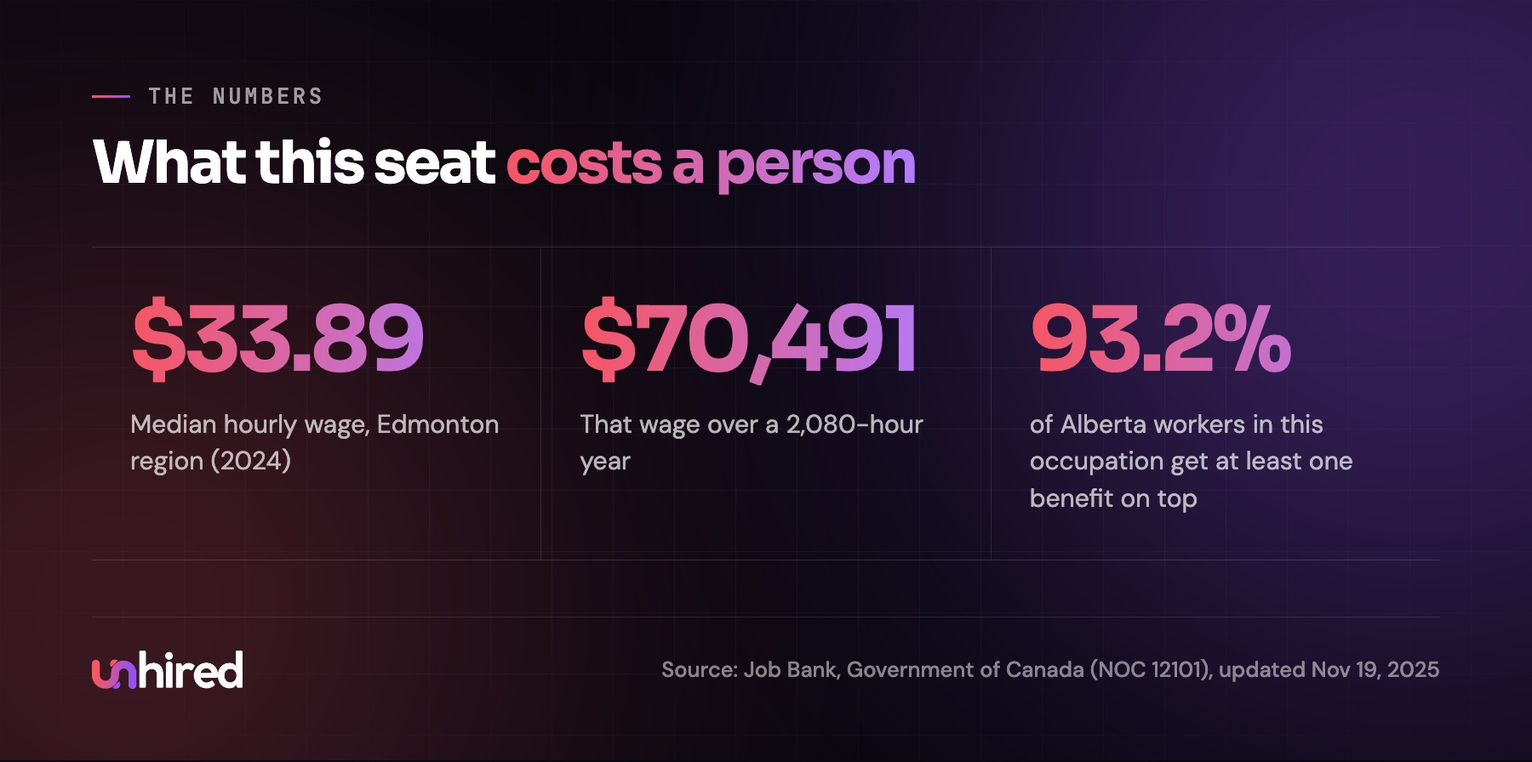
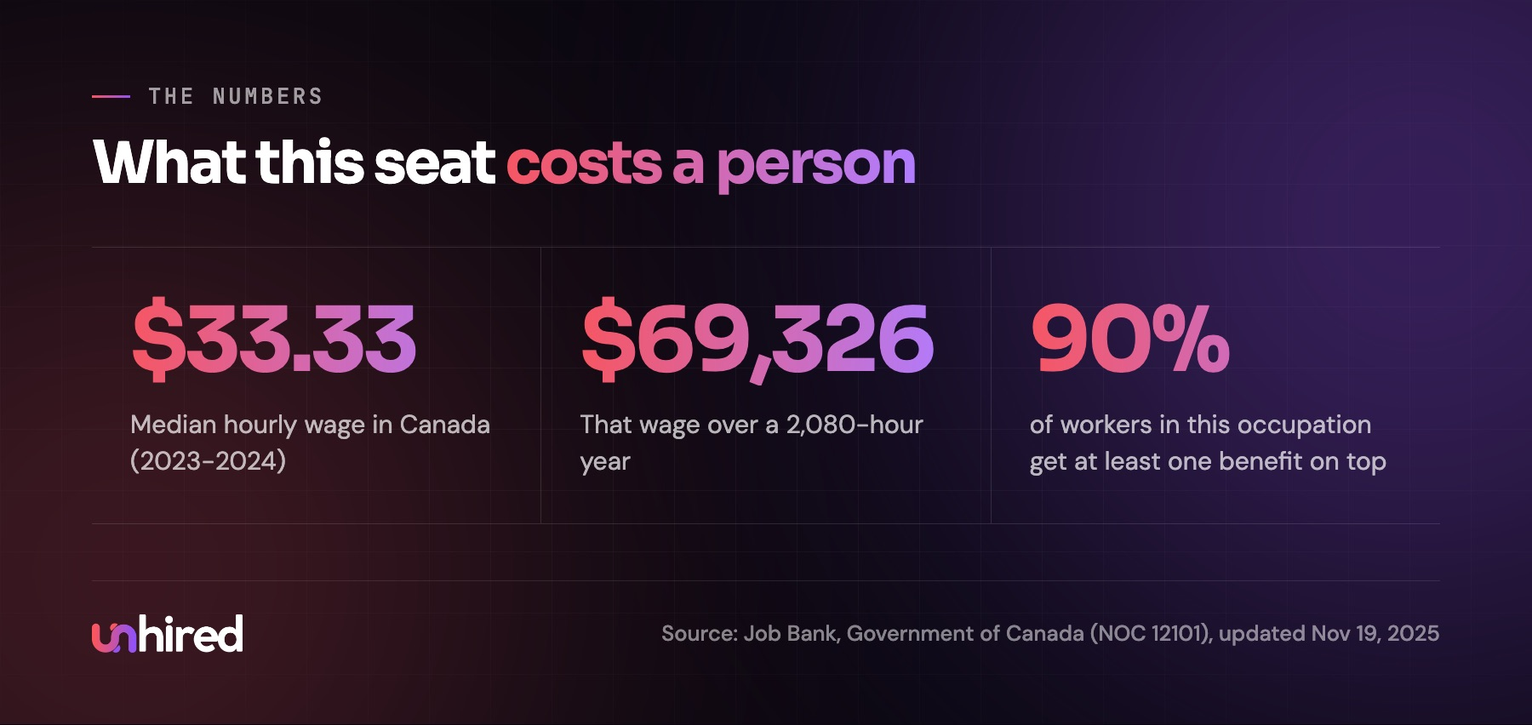
Articles: Brandon's first-person voice, no place names
WRITING.md 0b: written as Brandon (four years building AI systems and agents), no invented
case studies, no cities/provinces/states/regions, national wage figures only.
check-writing.mjs fails place names. HR breakdown drops Edmonton and uses Canada-wide
Job Bank figures.

diff --git a/public/kits/ai-hr-administrator.html b/public/kits/ai-hr-administrator.html
@@ -52,7 +52,7 @@ Original: <a href="https://unhired.io/blog/ai-hr-administrator">unhired.io/blog/
 
 <div class="blk"><div class="bar"><span class="n">14</span>Cover image<a class="dl" href="https://unhired.io/blog/ai-hr-administrator/01-cover.jpg" download>Download</a></div><img src="https://unhired.io/blog/ai-hr-administrator/01-cover.jpg" alt="A Construction Company Is Hiring an HR Administrator. What Would an AI Employee Do in Each Duty?"><p class="alt">Alt text: A Construction Company Is Hiring an HR Administrator. What Would an AI Employee Do in Each Duty?</p></div>
 <div class="blk"><div class="bar"><span class="n">15</span>Title<button data-copy>Copy</button></div><div class="body"><p>A Construction Company Is Hiring an HR Administrator. I Worked Out How an AI Employee Would Do the Job.</p></div></div>
-<div class="blk"><div class="bar"><span class="n">1</span>Paste text<button data-copy>Copy</button></div><div class="body"><p>A construction company in Edmonton posted a job for an HR Administrator this month. Full-time, benefits included, reporting into a busy HR team that onboards crews for several project sites at once.</p>
+<div class="blk"><div class="bar"><span class="n">1</span>Paste text<button data-copy>Copy</button></div><div class="body"><p>A construction company posted a job for an HR Administrator this month. Full-time, benefits included, reporting into a busy HR team that onboards crews for several project sites at once.</p>
 <p>I read every posting the same way now. I go down the list of duties and sort each one: could an AI Employee own this, or does it need a person? This posting has six duties, and all six are paperwork moving between BambooHR, the payroll system, a testing clinic and the people running each site.</p>
 <p>So I worked out what the AI version of this hire would look like: what it would do in each duty, a normal day on the job, how it would be set up, and what it would cost next to the wage.</p>
 </div></div>
@@ -93,24 +93,24 @@ Original: <a href="https://unhired.io/blog/ai-hr-administrator">unhired.io/blog/
 <div class="blk"><div class="bar"><span class="n">10</span>Add image<a class="dl" href="https://unhired.io/blog/ai-hr-administrator/06-setup.jpg" download>Download</a></div><img src="https://unhired.io/blog/ai-hr-administrator/06-setup.jpg" alt="How an AI HR Administrator is set up"><p class="alt">Alt text: How an AI HR Administrator is set up</p></div>
 <div class="blk"><div class="bar"><span class="n">11</span>Paste text<button data-copy>Copy</button></div><div class="body"><p>The last step is the one people skip. This company will switch benefits providers, open a site with different clearance rules, or change payroll software, and an AI Employee nobody updates slowly drifts out of date. Whoever builds it, the company needs to know who reviews its log and keeps it current.</p>
 <h2>What the seat costs a person</h2>
-<p>The Government of Canada&#39;s Job Bank puts the median wage for this occupation in the Edmonton region at $33.89 an hour (NOC 12101, 2024 data). Over a 2,080-hour year that&#39;s about $70,491.</p>
+<p>The Government of Canada&#39;s Job Bank puts the national median wage for this occupation at $33.33 an hour (NOC 12101, 2023-2024 data). Over a 2,080-hour year that&#39;s about $69,326.</p>
 </div></div>
 <div class="blk"><div class="bar"><span class="n">12</span>Add image<a class="dl" href="https://unhired.io/blog/ai-hr-administrator/07-the-numbers.jpg" download>Download</a></div><img src="https://unhired.io/blog/ai-hr-administrator/07-the-numbers.jpg" alt="What this seat costs a person"><p class="alt">Alt text: What this seat costs a person</p></div>
-<div class="blk"><div class="bar"><span class="n">13</span>Paste text<button data-copy>Copy</button></div><div class="body"><p>The wage is only part of it. In Alberta, 93.2% of workers in this occupation get at least one benefit on top of their pay, and the employer also covers payroll taxes, recruiting, training, vacation coverage, and a second round of hiring if the first person leaves.</p>
+<div class="blk"><div class="bar"><span class="n">13</span>Paste text<button data-copy>Copy</button></div><div class="body"><p>The wage is only part of it. Across Canada, 90% of workers in this occupation get at least one benefit on top of their pay, and the employer also covers payroll taxes, recruiting, training, vacation coverage, and a second round of hiring if the first person leaves.</p>
 <h2>How much you&#39;d pay for an AI HR Administrator</h2>
 <p>There are two ways to get one. A company can assemble it from software subscriptions (an AI agent platform plus connections to BambooHR, payroll and a texting tool) and have someone on staff design, test and maintain it. Or it can have a provider build and maintain it, which is usually a monthly fee.</p>
 <p>The price depends on how many systems it has to connect to, how many hires and questions it handles in a month, and how much ongoing maintenance is included. A company onboarding a few people a quarter needs much less than one running crews across several sites.</p>
-<p>Whatever the quote, compare it with the full cost of the seat: about $70,491 in wages for this role, plus benefits, payroll taxes and the cost of hiring, for roughly 40 hours of coverage a week.</p>
+<p>Whatever the quote, compare it with the full cost of the seat: about $69,326 in wages for this role, plus benefits, payroll taxes and the cost of hiring, for roughly 40 hours of coverage a week.</p>
 <h2>Would I tell this company to skip the hire?</h2>
 <p>Not necessarily. They&#39;re hiring because the seat is empty, so no one&#39;s job is on the line here.</p>
 <p>If the HR manager is buried in onboarding paperwork and the company keeps adding crews, the AI Employee fills the seat in days and works the same early mornings the sites do. If they&#39;d rather have a person, the duty breakdown is still useful: hand the chasing and the data entry to an AI Employee, and the person they hire spends their days on hiring decisions and the conversations with crews that actually need someone in the room.</p>
 <p>The same exercise works for any job you&#39;re about to post: go down the duties one at a time and ask whether each is coordination between systems or a judgment call that needs a person. Some websites offer <a href="https://unhired.io/assessment">free assessments</a> that run this check on a job description for you.</p>
-<p><em>Wage data: <a href="https://www.jobbank.gc.ca/marketreport/wages-occupation/12511/geo25349">Job Bank, Government of Canada</a>, updated November 19, 2025. The posting is real; the company name and address have been removed. The Monday schedule is an example built from the duties in the posting.</em></p>
+<p><em>Wage data: <a href="https://www.jobbank.gc.ca/marketreport/wages-occupation/12511/ca">Job Bank, Government of Canada</a>, updated November 19, 2025. The posting is real; the company name and address have been removed. The Monday schedule is an example built from the duties in the posting.</em></p>
 </div></div>
 <div class="blk"><div class="bar"><span class="n">16</span>Last block<button data-copy>Copy</button></div><div class="body"><p><em>This article was first published on <a href="https://unhired.io/blog/ai-hr-administrator">unhired.io</a>.</em></p></div></div>
-<div class="blk"><div class="bar">Share text (shown in the feed with the article)<button data-copy>Copy</button></div><div class="body pre">A construction company in Edmonton is hiring an HR Administrator. Full-time, benefits included, six duties on the posting.
+<div class="blk"><div class="bar">Share text (shown in the feed with the article)<button data-copy>Copy</button></div><div class="body pre">A construction company is hiring an HR Administrator. Full-time, benefits included, six duties on the posting.
 
-I went through it line by line to see how much of the job an AI Employee could take on, what it would have to hand back to a person, and what it would cost next to the $33.89 median hourly wage for the role.
+I went through it line by line to see how much of the job an AI Employee could take on, what it would have to hand back to a person, and what it would cost next to the $33.33 median hourly wage for the role.
 
 Short version: all six duties are paperwork moving between BambooHR, payroll, a testing clinic and the project sites.
 
@@ -127,8 +127,8 @@ Full breakdown below 👇
 </ol>
 
 <div class="blk"><div class="bar">Title<button data-copy>Copy</button></div><div class="body pre">A Construction Company Is Hiring an HR Administrator. What Would an AI Employee Do in Each Duty?</div></div>
-<div class="blk"><div class="bar">Subtitle<button data-copy>Copy</button></div><div class="body pre">A real posting from Edmonton, duty by duty: what an AI Employee would handle, what it hands back to a person, and what it would cost.</div></div>
-<div class="blk"><div class="bar">Body<button data-copy>Copy whole post</button></div><div class="body"><h2>Key takeaways</h2><ul><li>All six duties on this HR Administrator posting are paperwork moving between BambooHR, payroll, a testing clinic and the job sites.</li><li>An AI Employee would run onboarding, clearance tracking and benefits questions on its own, and book tests and screen applicants while reporting back.</li><li>Anything that changes someone's pay, and any flagged background check, goes to a person first.</li><li>The median wage for this occupation in the Edmonton region is $33.89 an hour, about $70,491 a year before benefits.</li></ul><p><em>This article was first published on <a href="https://unhired.io/blog/ai-hr-administrator">unhired.io</a>.</em></p><p>A construction company in Edmonton posted a job for an HR Administrator this month. Full-time, benefits included, reporting into a busy HR team that onboards crews for several project sites at once.</p>
+<div class="blk"><div class="bar">Subtitle<button data-copy>Copy</button></div><div class="body pre">A real job posting, duty by duty: what an AI Employee would handle, what it hands back to a person, and what it would cost.</div></div>
+<div class="blk"><div class="bar">Body<button data-copy>Copy whole post</button></div><div class="body"><h2>Key takeaways</h2><ul><li>All six duties on this HR Administrator posting are paperwork moving between BambooHR, payroll, a testing clinic and the job sites.</li><li>An AI Employee would run onboarding, clearance tracking and benefits questions on its own, and book tests and screen applicants while reporting back.</li><li>Anything that changes someone's pay, and any flagged background check, goes to a person first.</li><li>The median wage for this occupation in Canada is $33.33 an hour, about $69,326 a year before benefits.</li></ul><p><em>This article was first published on <a href="https://unhired.io/blog/ai-hr-administrator">unhired.io</a>.</em></p><p>A construction company posted a job for an HR Administrator this month. Full-time, benefits included, reporting into a busy HR team that onboards crews for several project sites at once.</p>
 <p>I read every posting the same way now. I go down the list of duties and sort each one: could an AI Employee own this, or does it need a person? This posting has six duties, and all six are paperwork moving between BambooHR, the payroll system, a testing clinic and the people running each site.</p>
 <p>So I worked out what the AI version of this hire would look like: what it would do in each duty, a normal day on the job, how it would be set up, and what it would cost next to the wage.</p>
 <p><img src="https://unhired.io/blog/ai-hr-administrator/02-posting.jpg" alt="The job posting, company name and address removed"></p>
@@ -164,24 +164,24 @@ Full breakdown below 👇
 <p><img src="https://unhired.io/blog/ai-hr-administrator/06-setup.jpg" alt="How an AI HR Administrator is set up"></p>
 <p>The last step is the one people skip. This company will switch benefits providers, open a site with different clearance rules, or change payroll software, and an AI Employee nobody updates slowly drifts out of date. Whoever builds it, the company needs to know who reviews its log and keeps it current.</p>
 <h2>What the seat costs a person</h2>
-<p>The Government of Canada&#39;s Job Bank puts the median wage for this occupation in the Edmonton region at $33.89 an hour (NOC 12101, 2024 data). Over a 2,080-hour year that&#39;s about $70,491.</p>
+<p>The Government of Canada&#39;s Job Bank puts the national median wage for this occupation at $33.33 an hour (NOC 12101, 2023-2024 data). Over a 2,080-hour year that&#39;s about $69,326.</p>
 <p><img src="https://unhired.io/blog/ai-hr-administrator/07-the-numbers.jpg" alt="What this seat costs a person"></p>
-<p>The wage is only part of it. In Alberta, 93.2% of workers in this occupation get at least one benefit on top of their pay, and the employer also covers payroll taxes, recruiting, training, vacation coverage, and a second round of hiring if the first person leaves.</p>
+<p>The wage is only part of it. Across Canada, 90% of workers in this occupation get at least one benefit on top of their pay, and the employer also covers payroll taxes, recruiting, training, vacation coverage, and a second round of hiring if the first person leaves.</p>
 <h2>How much you&#39;d pay for an AI HR Administrator</h2>
 <p>There are two ways to get one. A company can assemble it from software subscriptions (an AI agent platform plus connections to BambooHR, payroll and a texting tool) and have someone on staff design, test and maintain it. Or it can have a provider build and maintain it, which is usually a monthly fee.</p>
 <p>The price depends on how many systems it has to connect to, how many hires and questions it handles in a month, and how much ongoing maintenance is included. A company onboarding a few people a quarter needs much less than one running crews across several sites.</p>
-<p>Whatever the quote, compare it with the full cost of the seat: about $70,491 in wages for this role, plus benefits, payroll taxes and the cost of hiring, for roughly 40 hours of coverage a week.</p>
+<p>Whatever the quote, compare it with the full cost of the seat: about $69,326 in wages for this role, plus benefits, payroll taxes and the cost of hiring, for roughly 40 hours of coverage a week.</p>
 <h2>Would I tell this company to skip the hire?</h2>
 <p>Not necessarily. They&#39;re hiring because the seat is empty, so no one&#39;s job is on the line here.</p>
 <p>If the HR manager is buried in onboarding paperwork and the company keeps adding crews, the AI Employee fills the seat in days and works the same early mornings the sites do. If they&#39;d rather have a person, the duty breakdown is still useful: hand the chasing and the data entry to an AI Employee, and the person they hire spends their days on hiring decisions and the conversations with crews that actually need someone in the room.</p>
 <p>The same exercise works for any job you&#39;re about to post: go down the duties one at a time and ask whether each is coordination between systems or a judgment call that needs a person. Some websites offer <a href="https://unhired.io/assessment">free assessments</a> that run this check on a job description for you.</p>
-<p><em>Wage data: <a href="https://www.jobbank.gc.ca/marketreport/wages-occupation/12511/geo25349">Job Bank, Government of Canada</a>, updated November 19, 2025. The posting is real; the company name and address have been removed. The Monday schedule is an example built from the duties in the posting.</em></p>
+<p><em>Wage data: <a href="https://www.jobbank.gc.ca/marketreport/wages-occupation/12511/ca">Job Bank, Government of Canada</a>, updated November 19, 2025. The posting is real; the company name and address have been removed. The Monday schedule is an example built from the duties in the posting.</em></p>
 </div></div>
 </section>
 
 <section class="tab" id="pages">
 <ol class="how"><li>Post on the Unhired LinkedIn page and the Facebook page once the article is up.</li></ol>
-<div class="blk"><div class="bar">Caption<button data-copy>Copy</button></div><div class="body pre">A construction company in Edmonton is hiring an HR Administrator. We went through the posting duty by duty to show what an AI Employee would handle, what it would hand to a person, how one is set up, and how the cost compares to the $33.89 median hourly wage.
+<div class="blk"><div class="bar">Caption<button data-copy>Copy</button></div><div class="body pre">A construction company is hiring an HR Administrator. We went through the posting duty by duty to show what an AI Employee would handle, what it would hand to a person, how one is set up, and how the cost compares to the $33.33 median hourly wage.
 
 
 https://unhired.io/blog/ai-hr-administrator</div></div>

diff --git a/content/blog/ai-hr-administrator.md b/content/blog/ai-hr-administrator.md
@@ -1,7 +1,7 @@
 ---
 title: "A Construction Company Is Hiring an HR Administrator. What Would an AI Employee Do in Each Duty?"
 seoTitle: "AI HR Administrator: A Real Job Posting, Duty by Duty"
-description: "A real HR Administrator posting from an Edmonton construction company, broken down duty by duty: what an AI Employee would handle, what it hands to a person, and the cost."
+description: "A real HR Administrator posting from a construction company, broken down duty by duty: what an AI Employee would handle, what it hands to a person, and the cost."
 keyword: "AI HR administrator"
 category: "Job posting breakdowns"
 author: brandon
@@ -10,7 +10,7 @@ takeaways:
   - "All six duties on this HR Administrator posting are paperwork moving between BambooHR, payroll, a testing clinic and the job sites."
   - "An AI Employee would run onboarding, clearance tracking and benefits questions on its own, and book tests and screen applicants while reporting back."
   - "Anything that changes someone's pay, and any flagged background check, goes to a person first."
-  - "The median wage for this occupation in the Edmonton region is $33.89 an hour, about $70,491 a year before benefits."
+  - "The median wage for this occupation in Canada is $33.33 an hour, about $69,326 a year before benefits."
 related:
   - what-is-an-ai-employee
   - why-your-next-hire-should-be-an-ai-employee
@@ -19,28 +19,28 @@ faq:
     a: "It can do most of the administrative side: creating employee records, sending onboarding packets, following up on missing forms, booking pre-employment tests, keeping clearance trackers current, answering routine benefits questions and building workforce reports. Decisions about pay, discipline and hiring stay with a person."
   - q: "What would an AI HR Administrator need access to?"
     a: "The HR system (BambooHR in this posting), the payroll system, email and text messaging, the testing provider's booking system and wherever the company tracks clearances. Each connection is set up with only the permissions the job needs."
-  - q: "What does an HR Administrator cost in Edmonton?"
-    a: "Job Bank puts the median wage for this occupation in the Edmonton region at $33.89 an hour (2024 data), or about $70,491 over a 2,080-hour year. Benefits, payroll taxes, recruiting and training come on top of that."
+  - q: "What does an HR Administrator cost?"
+    a: "Job Bank puts the median wage for this occupation in Canada at $33.33 an hour (2023-2024 data), or about $69,326 over a 2,080-hour year. Benefits, payroll taxes, recruiting and training come on top of that."
   - q: "Does an AI Employee replace the HR manager?"
     a: "No. In this breakdown the AI Employee reports to the HR manager, and the manager makes every call that involves pay, test results, discipline or who gets hired."
 syndication:
   cover: /blog/ai-hr-administrator/01-cover.jpg
   linkedin_title: "A Construction Company Is Hiring an HR Administrator. I Worked Out How an AI Employee Would Do the Job."
-  substack_subtitle: "A real posting from Edmonton, duty by duty: what an AI Employee would handle, what it hands back to a person, and what it would cost."
+  substack_subtitle: "A real job posting, duty by duty: what an AI Employee would handle, what it hands back to a person, and what it would cost."
   tags: ["Artificial Intelligence", "Human Resources", "Small Business", "Future Of Work", "Automation"]
   share_text: |
-    A construction company in Edmonton is hiring an HR Administrator. Full-time, benefits included, six duties on the posting.
+    A construction company is hiring an HR Administrator. Full-time, benefits included, six duties on the posting.
 
-    I went through it line by line to see how much of the job an AI Employee could take on, what it would have to hand back to a person, and what it would cost next to the $33.89 median hourly wage for the role.
+    I went through it line by line to see how much of the job an AI Employee could take on, what it would have to hand back to a person, and what it would cost next to the $33.33 median hourly wage for the role.
 
     Short version: all six duties are paperwork moving between BambooHR, payroll, a testing clinic and the project sites.
 
     Full breakdown below 👇
   page_caption: |
-    A construction company in Edmonton is hiring an HR Administrator. We went through the posting duty by duty to show what an AI Employee would handle, what it would hand to a person, how one is set up, and how the cost compares to the $33.89 median hourly wage.
+    A construction company is hiring an HR Administrator. We went through the posting duty by duty to show what an AI Employee would handle, what it would hand to a person, how one is set up, and how the cost compares to the $33.33 median hourly wage.
 ---
 
-A construction company in Edmonton posted a job for an HR Administrator this month. Full-time, benefits included, reporting into a busy HR team that onboards crews for several project sites at once.
+A construction company posted a job for an HR Administrator this month. Full-time, benefits included, reporting into a busy HR team that onboards crews for several project sites at once.
 
 I read every posting the same way now. I go down the list of duties and sort each one: could an AI Employee own this, or does it need a person? This posting has six duties, and all six are paperwork moving between BambooHR, the payroll system, a testing clinic and the people running each site.
 
@@ -114,11 +114,11 @@ The last step is the one people skip. This company will switch benefits provider
 
 ## What the seat costs a person
 
-The Government of Canada's Job Bank puts the median wage for this occupation in the Edmonton region at $33.89 an hour (NOC 12101, 2024 data). Over a 2,080-hour year that's about $70,491.
+The Government of Canada's Job Bank puts the national median wage for this occupation at $33.33 an hour (NOC 12101, 2023-2024 data). Over a 2,080-hour year that's about $69,326.
 
 ![What this seat costs a person](/blog/ai-hr-administrator/07-the-numbers.jpg)
 
-The wage is only part of it. In Alberta, 93.2% of workers in this occupation get at least one benefit on top of their pay, and the employer also covers payroll taxes, recruiting, training, vacation coverage, and a second round of hiring if the first person leaves.
+The wage is only part of it. Across Canada, 90% of workers in this occupation get at least one benefit on top of their pay, and the employer also covers payroll taxes, recruiting, training, vacation coverage, and a second round of hiring if the first person leaves.
 
 ## How much you'd pay for an AI HR Administrator
 
@@ -126,7 +126,7 @@ There are two ways to get one. A company can assemble it from software subscript
 
 The price depends on how many systems it has to connect to, how many hires and questions it handles in a month, and how much ongoing maintenance is included. A company onboarding a few people a quarter needs much less than one running crews across several sites.
 
-Whatever the quote, compare it with the full cost of the seat: about $70,491 in wages for this role, plus benefits, payroll taxes and the cost of hiring, for roughly 40 hours of coverage a week.
+Whatever the quote, compare it with the full cost of the seat: about $69,326 in wages for this role, plus benefits, payroll taxes and the cost of hiring, for roughly 40 hours of coverage a week.
 
 ## Would I tell this company to skip the hire?
 
@@ -136,4 +136,4 @@ If the HR manager is buried in onboarding paperwork and the company keeps adding
 
 The same exercise works for any job you're about to post: go down the duties one at a time and ask whether each is coordination between systems or a judgment call that needs a person. Some websites offer [free assessments](/assessment) that run this check on a job description for you.
 
-*Wage data: [Job Bank, Government of Canada](https://www.jobbank.gc.ca/marketreport/wages-occupation/12511/geo25349), updated November 19, 2025. The posting is real; the company name and address have been removed. The Monday schedule is an example built from the duties in the posting.*
+*Wage data: [Job Bank, Government of Canada](https://www.jobbank.gc.ca/marketreport/wages-occupation/12511/ca), updated November 19, 2025. The posting is real; the company name and address have been removed. The Monday schedule is an example built from the duties in the posting.*

diff --git a/content/WRITING.md b/content/WRITING.md
@@ -18,10 +18,10 @@ ChatGPT words.
 
 ## 0. Inform, don't sell
 
-Articles (blog, LinkedIn, Medium, Substack) are independent guides. They answer the reader's question the
-way a knowledgeable third party would: what the role involves, how an AI Employee does it, where it needs a
-person, how one is set up, what it costs and how to judge whether it fits. They are never a pitch for
-Unhired.
+Articles (blog, LinkedIn, Medium, Substack) answer the reader's question with real expertise, in Brandon's
+first-person voice (section 0b): what the role involves, how an AI Employee does it, where it needs a person,
+how one is set up, what it costs and how to judge whether it fits. They share knowledge; they are never a
+pitch for Unhired.
 
 - Don't mention Unhired (apart from the one assessment pointer below), its guarantee, its pricing, or what
   "we" build, train or maintain. No "how we'd
@@ -33,10 +33,9 @@ Unhired.
   what drives the price. Tell the reader how to compare quotes. Never quote Unhired's price or guarantee.
 - No sales lines: "what you'd save", "nothing up front", "you never have to touch it", "we replace the
   role, not the person".
-- The byline is Brandon, so "I" is fine for the author's own analysis ("I went through the posting duty by
-  duty"). It's never "I'd build this for you".
-- One subtle mention of the assessment is allowed per article, written as a neutral pointer, the way a third
-  party would mention a useful tool, with a link to `/assessment`. For example:
+- The byline is Brandon and articles are in his voice. It's never "I'd build this for you" or "my clients save".
+- One subtle mention of the assessment is allowed per article, written as a neutral pointer, the way you'd mention a
+  useful tool, with a link to `/assessment`. For example:
   "AI Employee assessments, such as [the one offered by Unhired](/assessment), can be a good place to start."
   or "Some websites offer [free assessments](/assessment) that check whether a role can be filled by an AI
   Employee." Put it where the reader is deciding whether their own role fits. Never "our", never a reason to
@@ -44,6 +43,18 @@ Unhired.
 - The site adds its own Take Assessment box where `<!-- cta -->` sits. Kits leave it out of the LinkedIn,
   Medium and Substack copies.
 - Captions for the Unhired company page may say "we wrote up..." about the article. They still don't pitch.
+
+## 0b. Brandon's voice, written for everywhere
+
+- Articles are written as Brandon, in the first person, as someone who has spent the last four years
+  building AI systems and AI agents for businesses. "I read every posting the same way now", "I'd split the
+  duties like this", "the step owners skip is the last one". Share what he'd know from doing the work:
+  how a role breaks down, where AI does well, where it needs a person, what goes wrong in setup.
+- Don't invent specific past builds, named clients, or results ("a client of mine saved 20 hours"). Opinions
+  and judgment in his voice are fine; made-up case studies aren't.
+- No cities, provinces, states or regions. Brandon sells to businesses everywhere, and a place name makes a
+  post read as local. Say "a construction company", not "a construction company in Edmonton". Use national
+  wage figures (BLS for the US, Job Bank's Canada-wide page for Canada), and never a regional page.
 
 ## 1. Be specific
 
